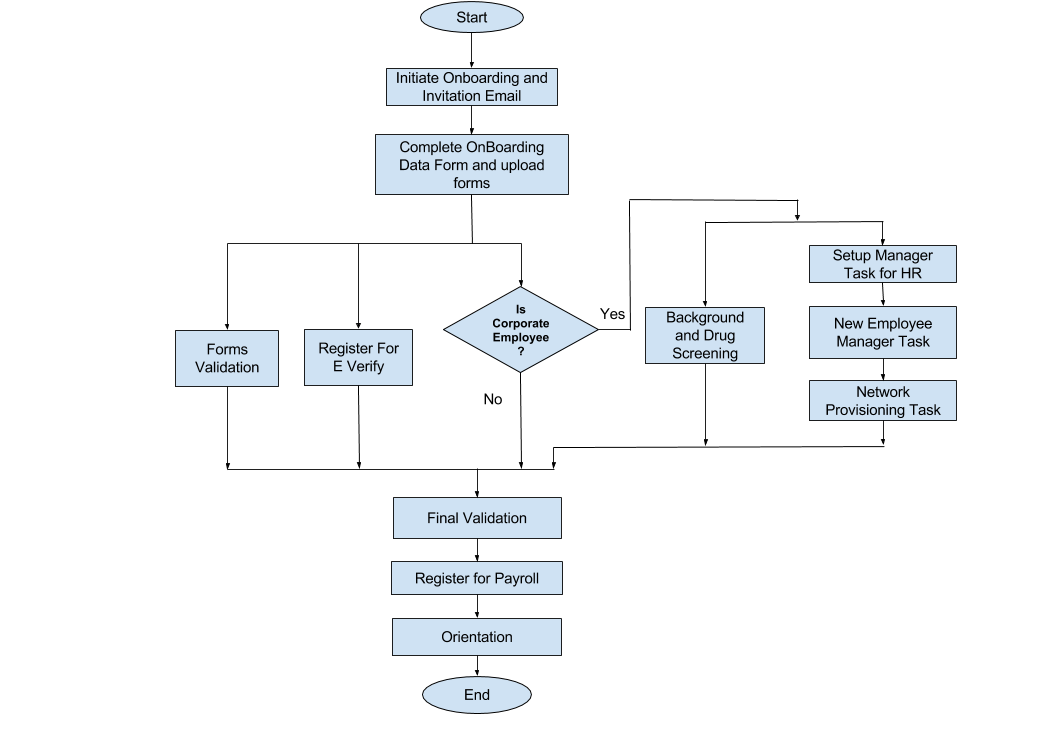
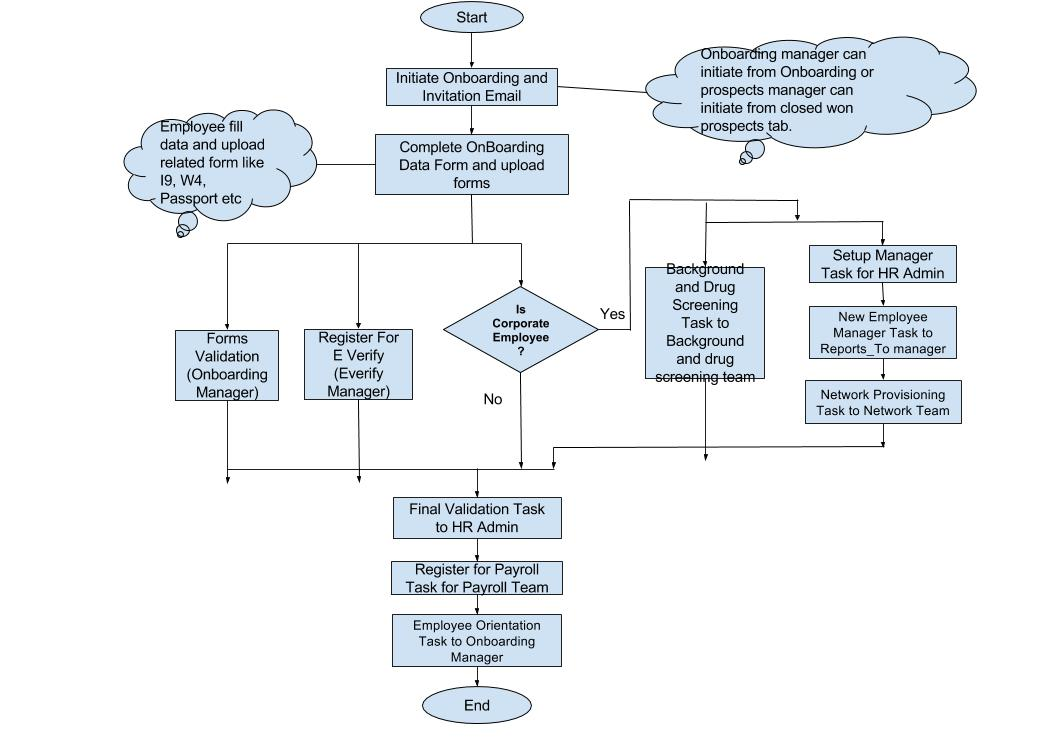
employee onboarding documentation change

diff --git a/office-master/office-doc/src/site/markdown/office/onboarding/employee-onboarding.md b/office-master/office-doc/src/site/markdown/office/onboarding/employee-onboarding.md
@@ -14,6 +14,9 @@ How To Onboard An Employee:
         - **OnBoarding Manager** will get **Forms And Data Validation Task**
         - **Background Screening Manager** will get **Background And Drug Screening Task**
         - **E-Verify Manager** will get **E-Verify Task**
+        - **HR Admin** will get **Setup Manager Task**
+        - If **Setup Manager Task** completes, Employee manager will get **New Employee manager task**.
+        - Employee **Reports_To** manager will provide **Roles and Responsibilities** and **Requirements** (**For Network Department sake**) and complete the task.
         - **Network Administration Team** will get **Network Provisioning Task**
     - Else If the employee is of type **Employee**
         - **OnBoarding Manager** will get **Forms And Data Validation Task**
@@ -71,7 +74,7 @@ If the onboarded employee is **Corporate Employee**
         Forms And Data Validation Task and Email Notification to Onboarding Manager
         E-Verify task and Email Notification to E-Verify Manager
         Background And Drug Screening Task and Email Notification to Background Screening Manager
-        Network Provisioning Task and Email Notification to Network Department
+        Setup Manager Task and Email Notification to HR Admin
 
 Else If the OnBoarded Employee is of type **Employee**:
 ----
@@ -115,6 +118,14 @@ E-Verify Task:
 E-Verify Task Complete Email:
 ----
  ![alt text](../../images/onboarding/everify-complete-email.png "Employee Onboarding")
+
+Setup Manager Task:
+----
+ ![alt text](../../images/onboarding/setup-manager-task.png "Employee Onboarding")
+
+New Employee Manager Task:
+----
+ ![alt text](../../images/onboarding/new-manager-task.png "Employee Onboarding") 
 
 Network Provisioning Task Email:
 ----

diff --git a/office-master/office-doc/src/site/markdown/office/onboarding/onboarding-search.md b/office-master/office-doc/src/site/markdown/office/onboarding/onboarding-search.md
@@ -1,0 +1,24 @@
+Employee Onboarding Search
+====
+The following role employees have access to search onboarding records,
+    - Onboarding Manager
+    - Background And Drug Screening Manager
+    - E-Verify Manager
+    - HR Admin
+    - Network And System Admin
+    - Payroll And Benefits
+How many corporate employees onboarded?
+----
+ ![alt text](../../images/onboarding/onboarding-empType-search.png "Employee Onboarding")
+
+How many candidates onboarded to "System Soft Technologies LLC"?
+----
+ ![alt text](../../images/onboarding/onboarding-company-search.png "Employee Onboarding")
+
+How many onboarding records with status "COMPLETE"?
+----
+ ![alt text](../../images/onboarding/onboarding-status-search.png "Employee Onboarding")
+
+How many onboarding records startDate is "08/Aug/2016"?
+----
+ ![alt text](../../images/onboarding/onboarding-startdate-search.png "Employee Onboarding")

diff --git a/office-master/office-doc/src/site/markdown/office/onboarding/onboarding-reports.md b/office-master/office-doc/src/site/markdown/office/onboarding/onboarding-reports.md
@@ -1,0 +1,5 @@
+Employee Onboarding Reports:
+====
+How many onboarding records were created between 01/Aug/2016 to 31/Aug/2016?
+----
+![alt text](../../images/onboarding/onboarding-startdate-based-report.png "Employee Onboarding")
